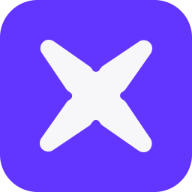
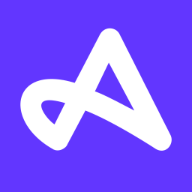
refactor(app): :truck: Changed app name from xcost to preallo

diff --git a/src/components/Icons/Preallo.tsx b/src/components/Icons/Preallo.tsx
@@ -1,0 +1,15 @@
+import { SvgIcon } from '@mui/material';
+import { ISvgProps } from '../SvgIcon/SvgIcon';
+
+const Preallo = (props: ISvgProps) => {
+  return (
+    <SvgIcon {...props}>
+      <path
+        fill={props.color}
+        d='M.197 20V5.594h7.686c.812 0 1.547.189 2.205.567a4.303 4.303 0 0 1 1.596 1.533c.392.644.588 1.372.588 2.184v.462c0 .812-.203 1.561-.609 2.247a4.646 4.646 0 0 1-1.596 1.659c-.658.42-1.393.63-2.205.63H4.607V20H.197Zm4.41-8.337h1.932c.266 0 .49-.056.672-.168.182-.112.322-.273.42-.483.112-.21.168-.462.168-.756 0-.35-.105-.665-.315-.945-.196-.28-.511-.42-.945-.42H4.607v2.772Zm20.528 8.547c-.644 0-1.183-.084-1.617-.252a2.095 2.095 0 0 1-1.008-.861c-.224-.392-.336-.924-.336-1.596 0-.21-.014-.462-.042-.756a2.501 2.501 0 0 0-.23-.84 1.553 1.553 0 0 0-.547-.693c-.252-.196-.602-.294-1.05-.294h-1.218V20h-4.305V5.594h8.064c.686 0 1.33.14 1.932.42a3.486 3.486 0 0 1 1.491 1.197c.392.518.588 1.169.588 1.953 0 .658-.119 1.253-.357 1.785a4.14 4.14 0 0 1-.945 1.323 4.26 4.26 0 0 1-1.28.798v.105c.405.126.755.301 1.05.525.293.224.531.49.713.798.182.294.315.602.4.924.097.322.146.637.146.945 0 .21.007.455.021.735.014.266.05.525.105.777.07.252.175.476.315.672.154.196.364.329.63.399v.861a4.872 4.872 0 0 1-1.239.315c-.448.056-.875.084-1.28.084Zm-6.048-8.505h2.142c.21 0 .4-.063.567-.189.182-.14.322-.322.42-.546.098-.224.147-.483.147-.777 0-.448-.105-.777-.315-.987a1.031 1.031 0 0 0-.756-.315h-2.205v2.814ZM30.147 20V5.594h10.815l-.42 3.36h-6.07v2.1h5.839v3.213h-5.838v2.373h6.069l.42 3.36H30.147Zm49.415 0V5.594h4.431v10.878h5.25l.42 3.528h-10.1Zm12.473 0V5.594h4.431v10.878h5.25l.42 3.528h-10.1Zm18.227.21a6.304 6.304 0 0 1-2.457-.483 6.566 6.566 0 0 1-3.36-3.36 6.304 6.304 0 0 1-.483-2.457v-2.184c0-.868.161-1.68.483-2.436a6.494 6.494 0 0 1 1.365-2.016 6.266 6.266 0 0 1 1.995-1.344 6.076 6.076 0 0 1 2.457-.504h1.176c.868 0 1.68.168 2.436.504.77.322 1.442.77 2.016 1.344a6.205 6.205 0 0 1 1.344 2.016 5.93 5.93 0 0 1 .504 2.436v2.184c0 .868-.168 1.687-.504 2.457a6.266 6.266 0 0 1-1.344 1.995 6.494 6.494 0 0 1-2.016 1.365 6.15 6.15 0 0 1-2.436.483h-1.176Zm.588-3.276a2.1 2.1 0 0 0 .861-.168c.266-.112.497-.259.693-.441.196-.196.343-.42.441-.672.112-.252.168-.525.168-.819v-4.032c0-.294-.056-.567-.168-.819a1.933 1.933 0 0 0-1.134-1.113 2.1 2.1 0 0 0-.861-.168c-.308 0-.595.056-.861.168a2.147 2.147 0 0 0-.693.462c-.196.182-.35.399-.462.651a2.24 2.24 0 0 0-.147.819v4.032c0 .294.049.567.147.819.112.252.266.476.462.672.196.196.427.35.693.462.266.098.553.147.861.147Zm-35.568 3.994c.83 1.67-.83 3.965-2.907 2.713 0 0-7.889-5.217-13.702-7.513l-3.53 6.678c-.207.626-1.66 1.67-2.906.835-9.757-5.635-7.889-16.696 4.36-12.94l4.983-9.6c1.038-1.67 3.114-1.252 3.737 0l9.965 19.827Zm-20.553-6.261c-7.89-2.296-3.737 3.13-2.076 4.174l2.076-4.174Zm13.494 1.46-4.983-9.39-2.699 5.634c1.869.626 6.021 2.922 7.682 3.757Z'
+      />
+    </SvgIcon>
+  );
+};
+
+export default Preallo;

diff --git a/src/components/Container/HeadContainer.tsx b/src/components/Container/HeadContainer.tsx
@@ -4,10 +4,10 @@ import React from 'react';
 export const HeadContainer = () => {
   return (
     <Head>
-      <title>Xcost</title>
+      <title>Preallo</title>
       <meta
         name='description'
-        content='A webb-app created to help in keeping your finance in check. Spreadsheet no more! Xcost gets the job done in a more elegant way.'
+        content='A webb-app created to help in keeping your finance in check. Spreadsheet no more! Preallo gets the job done in a more elegant way.'
       />
       <meta name='theme-color' content='#F7F6F8' />
       <link rel='icon' href='/favicon.ico' />

diff --git a/src/components/Logo/Logo.tsx b/src/components/Logo/Logo.tsx
@@ -1,6 +1,6 @@
 import { styled, Typography } from '@mui/material';
 import React from 'react';
-import { Xcost } from '../Icons';
+import { Preallo } from '../Icons';
 import { ISvgProps } from '../SvgIcon/SvgIcon';
 import Link from 'next/link';
 
@@ -49,7 +49,7 @@ export const Logo = ({
   };
   return (
     <StyledLogo href={'/'} ownerState={ownerState} {...props}>
-      <Xcost className='logoIcon' {...props} />
+      <Preallo className='logoIcon' {...props} />
       <Typography className='logoName' variant='h6' component={'span'}>
         cost
       </Typography>

diff --git a/src/components/Icons/index.ts b/src/components/Icons/index.ts
@@ -5,7 +5,7 @@ export { default as ExpenceIcon } from './ExpenceIcon';
 export { default as GoogleIcon } from './Google';
 export { default as PlusIcon } from './PlusIcon';
 export { default as LeftPointer } from './LeftPointer';
-export { default as Xcost } from './Xcost';
+export { default as Preallo } from './Preallo';
 export { default as SettingsIcon } from './SettingsIcon';
 export { default as FilterIcon } from './FilterIcon';
 export { default as MonthIcon } from './MonthIcon';

diff --git a/.storybook/preview.js b/.storybook/preview.js
@@ -24,6 +24,18 @@ const viewports = Object.fromEntries(
   })
 );
 
+export const globalTypes = {
+  themeMode: {
+    name: 'Theme mode',
+    description: 'Global theme mode for components',
+    defaultValue: 'light',
+    toolbar: {
+      icon: 'circlehollow',
+      items: ['light', 'dark'],
+    },
+  },
+}
+
 export const parameters = {
   layout: 'fullscreen',
   actions: { argTypesRegex: '^on[A-Z].*' },

diff --git a/src/pages/index.tsx b/src/pages/index.tsx
@@ -10,7 +10,7 @@ const Home: NextPage = () => {
   return (
     <div className={styles.container}>
       <Head>
-        <title>Xcost</title>
+        <title>Preallo</title>
         <meta name='description' content='Generated by create next app' />
         <meta name='theme-color' content='#F7FAFC' />
         <link rel='icon' href='/favicon.ico' />

diff --git a/README.md b/README.md
@@ -1,8 +1,8 @@
 ![initials logo](/public/android-chrome-192x192.png 'initials logo')
 
-# Xcost
+# Preallo
 
-Spreadsheet no more! Xcost gets the job done in a more elegant way.
+Spreadsheet no more! Preallo gets the job done in a more elegant way.
 
 ---
 
